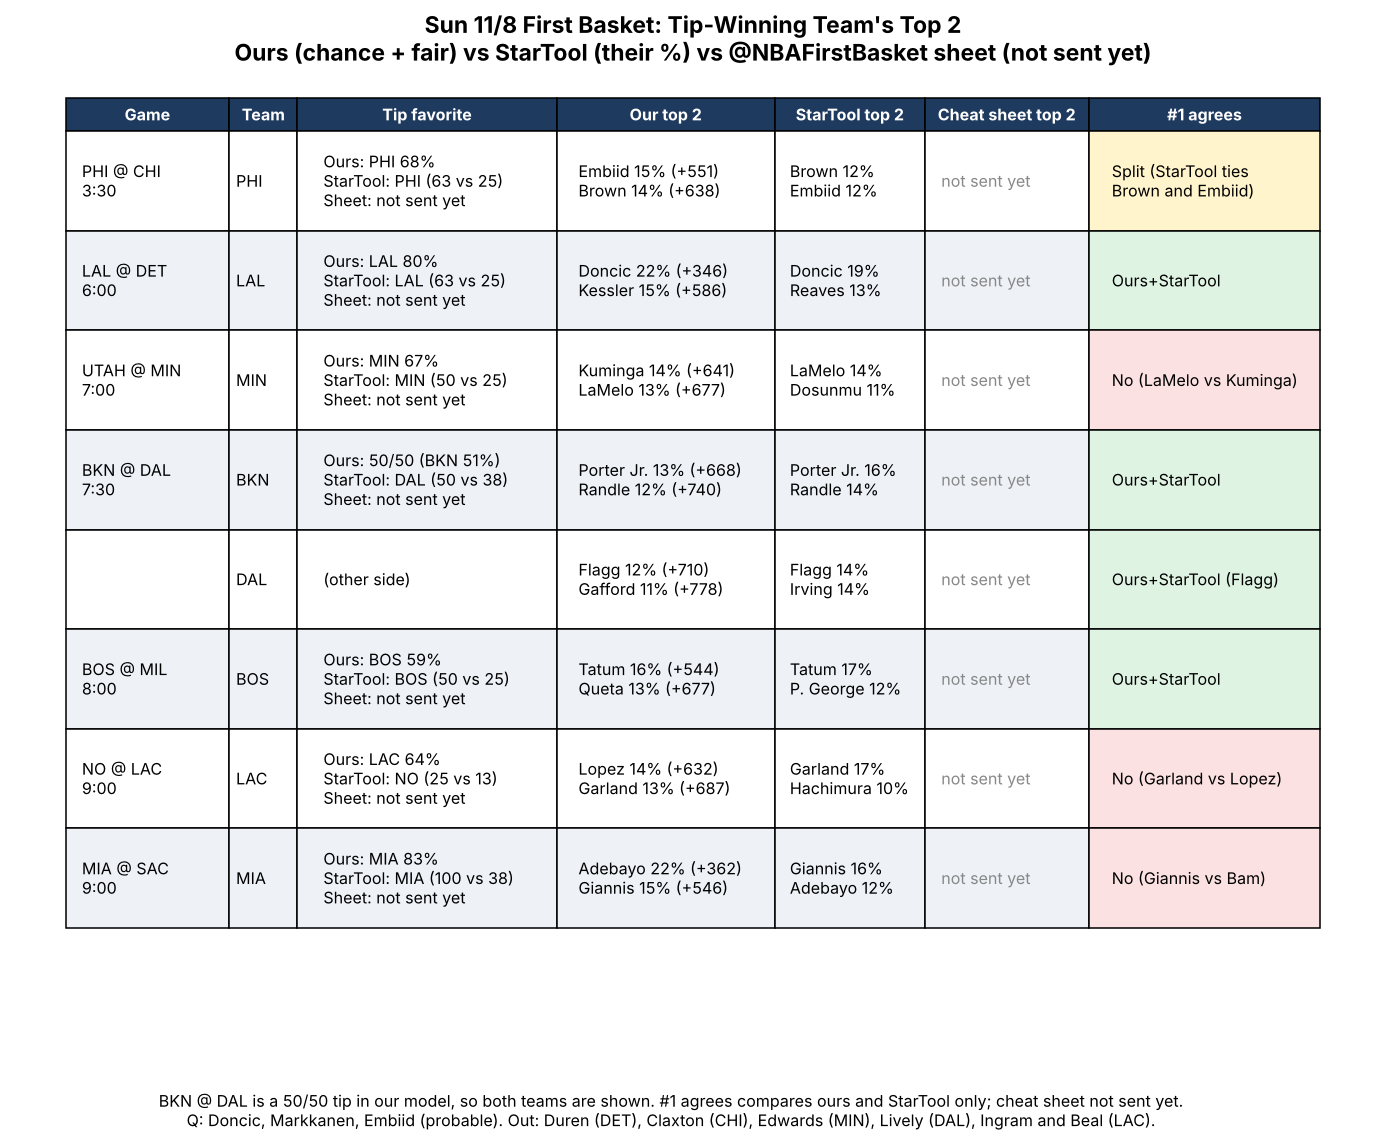
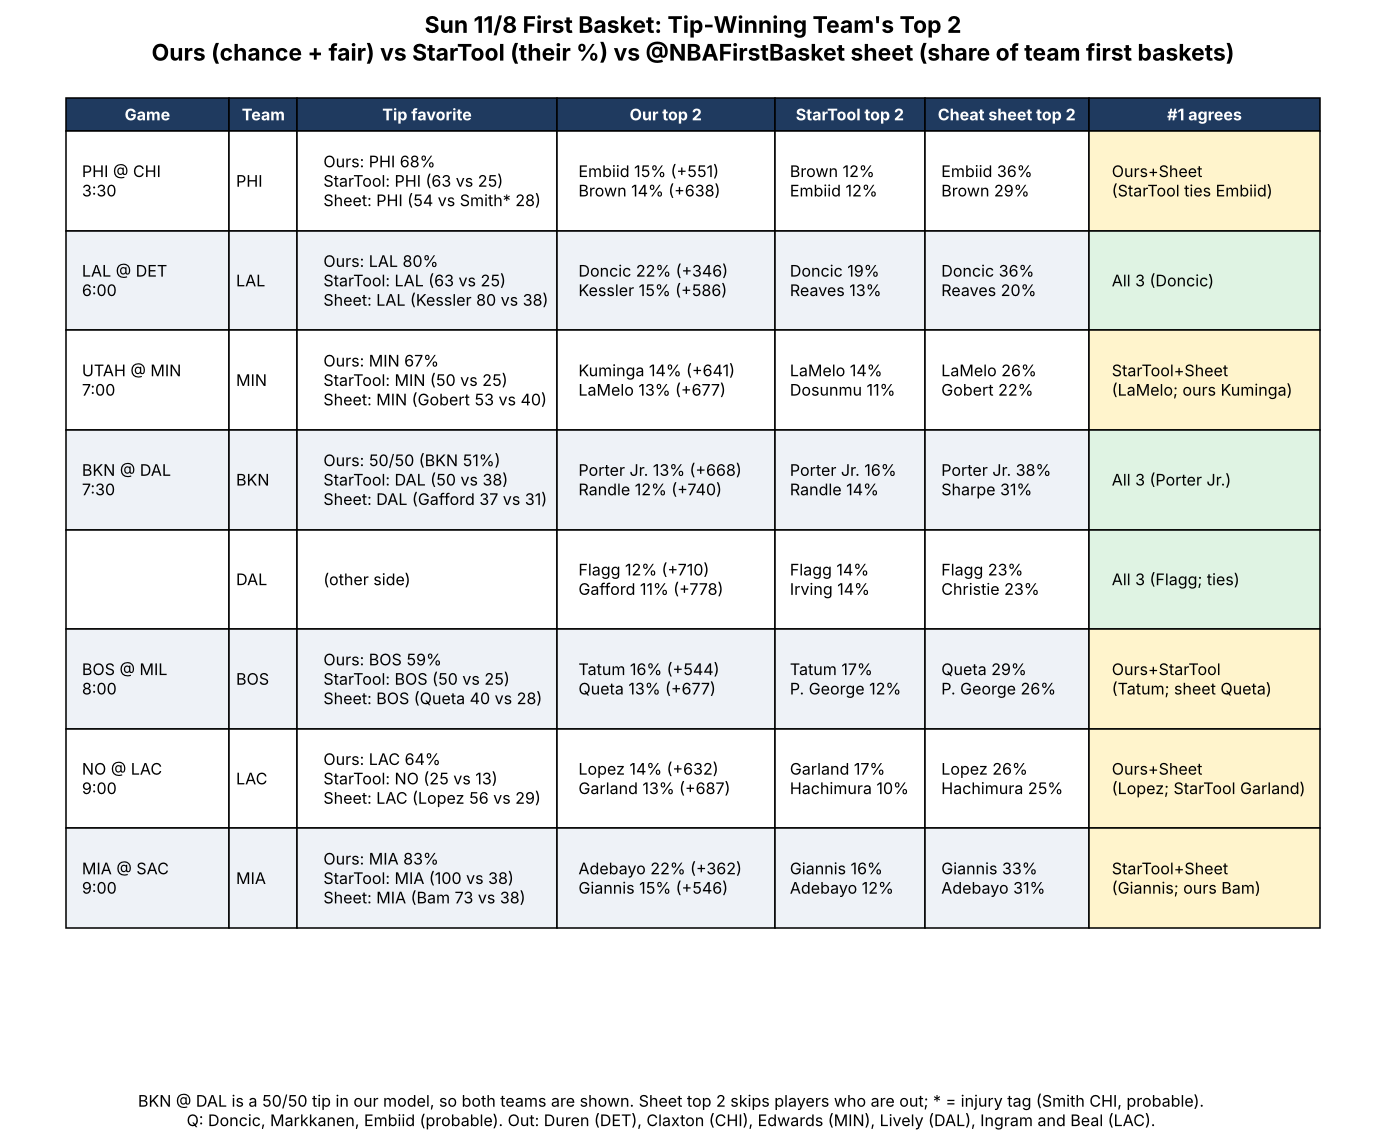
NBA 11/8: @NBAFirstBasket cheat sheets vs ours vs StarTool, 3-way chart filled
Claude-Session: https://claude.ai/code/session_01TQWUAJSyeczoh1eaRjRwmB

diff --git a/analysis/nba/out/charts/fb_tipteam_3way_2026-11-08.py b/analysis/nba/out/charts/fb_tipteam_3way_2026-11-08.py
@@ -2,17 +2,17 @@ import matplotlib; matplotlib.use('Agg')
 import matplotlib.pyplot as plt
 NS="not sent yet"
 rows=[
-["PHI @ CHI\n3:30","PHI","Ours: PHI 68%\nStarTool: PHI (63 vs 25)\nSheet: not sent yet","Embiid 15% (+551)\nBrown 14% (+638)","Brown 12%\nEmbiid 12%",NS,"Split (StarTool ties\nBrown and Embiid)","y"],
-["LAL @ DET\n6:00","LAL","Ours: LAL 80%\nStarTool: LAL (63 vs 25)\nSheet: not sent yet","Doncic 22% (+346)\nKessler 15% (+586)","Doncic 19%\nReaves 13%",NS,"Ours+StarTool","g"],
-["UTAH @ MIN\n7:00","MIN","Ours: MIN 67%\nStarTool: MIN (50 vs 25)\nSheet: not sent yet","Kuminga 14% (+641)\nLaMelo 13% (+677)","LaMelo 14%\nDosunmu 11%",NS,"No (LaMelo vs Kuminga)","r"],
-["BKN @ DAL\n7:30","BKN","Ours: 50/50 (BKN 51%)\nStarTool: DAL (50 vs 38)\nSheet: not sent yet","Porter Jr. 13% (+668)\nRandle 12% (+740)","Porter Jr. 16%\nRandle 14%",NS,"Ours+StarTool","g"],
-["","DAL","(other side)","Flagg 12% (+710)\nGafford 11% (+778)","Flagg 14%\nIrving 14%",NS,"Ours+StarTool (Flagg)","g"],
-["BOS @ MIL\n8:00","BOS","Ours: BOS 59%\nStarTool: BOS (50 vs 25)\nSheet: not sent yet","Tatum 16% (+544)\nQueta 13% (+677)","Tatum 17%\nP. George 12%",NS,"Ours+StarTool","g"],
-["NO @ LAC\n9:00","LAC","Ours: LAC 64%\nStarTool: NO (25 vs 13)\nSheet: not sent yet","Lopez 14% (+632)\nGarland 13% (+687)","Garland 17%\nHachimura 10%",NS,"No (Garland vs Lopez)","r"],
-["MIA @ SAC\n9:00","MIA","Ours: MIA 83%\nStarTool: MIA (100 vs 38)\nSheet: not sent yet","Adebayo 22% (+362)\nGiannis 15% (+546)","Giannis 16%\nAdebayo 12%",NS,"No (Giannis vs Bam)","r"],
+["PHI @ CHI\n3:30","PHI","Ours: PHI 68%\nStarTool: PHI (63 vs 25)\nSheet: PHI (54 vs Smith* 28)","Embiid 15% (+551)\nBrown 14% (+638)","Brown 12%\nEmbiid 12%","Embiid 36%\nBrown 29%","Ours+Sheet\n(StarTool ties Embiid)","y"],
+["LAL @ DET\n6:00","LAL","Ours: LAL 80%\nStarTool: LAL (63 vs 25)\nSheet: LAL (Kessler 80 vs 38)","Doncic 22% (+346)\nKessler 15% (+586)","Doncic 19%\nReaves 13%","Doncic 36%\nReaves 20%","All 3 (Doncic)","g"],
+["UTAH @ MIN\n7:00","MIN","Ours: MIN 67%\nStarTool: MIN (50 vs 25)\nSheet: MIN (Gobert 53 vs 40)","Kuminga 14% (+641)\nLaMelo 13% (+677)","LaMelo 14%\nDosunmu 11%","LaMelo 26%\nGobert 22%","StarTool+Sheet\n(LaMelo; ours Kuminga)","y"],
+["BKN @ DAL\n7:30","BKN","Ours: 50/50 (BKN 51%)\nStarTool: DAL (50 vs 38)\nSheet: DAL (Gafford 37 vs 31)","Porter Jr. 13% (+668)\nRandle 12% (+740)","Porter Jr. 16%\nRandle 14%","Porter Jr. 38%\nSharpe 31%","All 3 (Porter Jr.)","g"],
+["","DAL","(other side)","Flagg 12% (+710)\nGafford 11% (+778)","Flagg 14%\nIrving 14%","Flagg 23%\nChristie 23%","All 3 (Flagg; ties)","g"],
+["BOS @ MIL\n8:00","BOS","Ours: BOS 59%\nStarTool: BOS (50 vs 25)\nSheet: BOS (Queta 40 vs 28)","Tatum 16% (+544)\nQueta 13% (+677)","Tatum 17%\nP. George 12%","Queta 29%\nP. George 26%","Ours+StarTool\n(Tatum; sheet Queta)","y"],
+["NO @ LAC\n9:00","LAC","Ours: LAC 64%\nStarTool: NO (25 vs 13)\nSheet: LAC (Lopez 56 vs 29)","Lopez 14% (+632)\nGarland 13% (+687)","Garland 17%\nHachimura 10%","Lopez 26%\nHachimura 25%","Ours+Sheet\n(Lopez; StarTool Garland)","y"],
+["MIA @ SAC\n9:00","MIA","Ours: MIA 83%\nStarTool: MIA (100 vs 38)\nSheet: MIA (Bam 73 vs 38)","Adebayo 22% (+362)\nGiannis 15% (+546)","Giannis 16%\nAdebayo 12%","Giannis 33%\nAdebayo 31%","StarTool+Sheet\n(Giannis; ours Bam)","y"],
 ]
 fig,ax=plt.subplots(figsize=(16,1.1*len(rows)+2.4)); ax.axis('off')
-ax.set_title("Sun 11/8 First Basket: Tip-Winning Team's Top 2\nOurs (chance + fair) vs StarTool (their %) vs @NBAFirstBasket sheet (not sent yet)",fontsize=15,fontweight='bold',pad=12)
+ax.set_title("Sun 11/8 First Basket: Tip-Winning Team's Top 2\nOurs (chance + fair) vs StarTool (their %) vs @NBAFirstBasket sheet (share of team first baskets)",fontsize=15,fontweight='bold',pad=12)
 tb=ax.table(cellText=[r[:7] for r in rows],colLabels=["Game","Team","Tip favorite","Our top 2","StarTool top 2","Cheat sheet top 2","#1 agrees"],
   colWidths=[0.12,0.05,0.19,0.16,0.11,0.12,0.17],loc='upper center',cellLoc='left')
 tb.auto_set_font_size(False); tb.set_fontsize(10.5)
@@ -24,6 +24,5 @@ for (r,c),cl in tb.get_celld().items():
     else:
         if r%2==0: cl.set_facecolor('#eef2f7')
         if c==6: cl.set_facecolor(col[rows[r-1][7]])
-        if c==5: cl.get_text().set_color('#888888')
-plt.figtext(0.5,0.03,"BKN @ DAL is a 50/50 tip in our model, so both teams are shown. #1 agrees compares ours and StarTool only; cheat sheet not sent yet.\nQ: Doncic, Markkanen, Embiid (probable). Out: Duren (DET), Claxton (CHI), Edwards (MIN), Lively (DAL), Ingram and Beal (LAC).",ha='center',fontsize=10.5)
+plt.figtext(0.5,0.03,"BKN @ DAL is a 50/50 tip in our model, so both teams are shown. Sheet top 2 skips players who are out; * = injury tag (Smith CHI, probable).\nQ: Doncic, Markkanen, Embiid (probable). Out: Duren (DET), Claxton (CHI), Edwards (MIN), Lively (DAL), Ingram and Beal (LAC).",ha='center',fontsize=10.5)
 plt.savefig('/home/user/Defined-Risk-Trading/analysis/nba/out/charts/fb_tipteam_3way_2026-11-08.png',dpi=110,bbox_inches='tight')

diff --git a/analysis/nba/out/cheatsheet/2026-11-08.md b/analysis/nba/out/cheatsheet/2026-11-08.md
@@ -1,0 +1,43 @@
+# @NBAFirstBasket tip-off cheat sheet vs chain model, Sun 11/8 (last-season rates)
+
+Cards: `2026-11-08-tip1.jpg`, `2026-11-08-tip2.jpg`, `2026-11-08-fb-card1.png`, `2026-11-08-fb-card2.jpg`.
+Chart: `../charts/fb_tipteam_3way_2026-11-08.png` (ours vs StarTool vs sheet). Normalized A = A / (A + B) of the two player tip-win rates.
+Tim skipped betting today; comparison only.
+
+| Game | Jumpers (sheet) | Sheet tip win (A / B, H2H) | Normalized A | Our tip | Note |
+|---|---|---|---|---|---|
+| PHI@CHI | Embiid / Smith* | 54% / 28%, Smith 1-0 | ~66% PHI | PHI 68% | Agree; Smith probable (finger) |
+| LAL@DET | Kessler / Reed | 80% / 38%, no H2H | ~68% LAL | LAL 80% | Agree; we're higher |
+| UTA@MIN | Hayes / Gobert | 40% / 53%, Hayes 3-1 | ~43% UTA | MIN 67% | Agree on MIN; H2H favors Hayes |
+| BKN@DAL | Sharpe / Gafford | 31% / 37%, no H2H | ~46% BKN | 50/50 (BKN 51%) | Sheet leans DAL, like StarTool |
+| BOS@MIL | Queta / Turner | 40% / 28%, Turner 3-1 | ~59% BOS | BOS 59% | Agree; H2H favors Turner |
+| NOP@LAC | Matkovic / Lopez | 29% / 56%, Lopez 1-0 | ~34% NO | LAC 64% | Agree (StarTool had NO) |
+| MIA@SAC | Adebayo / Sabonis | 73% / 38%, Adebayo 2-0 | ~66% MIA | MIA 83% | Agree; we're higher |
+
+Jumper flags: none. Sheet jumpers match ours in all 7 games. Smith (CHI) has the injury asterisk (probable).
+
+## @NBAFirstBasket first-basket cards (1st Bsk = share of team's first baskets, historical)
+
+| Team | Our top 2 (game first points %, fair) | Sheet top 2 by 1st Bsk | Same #1? |
+|---|---|---|---|
+| PHI | Embiid 15% (+551), Brown 14% (+638) | Embiid 36%, Brown 29% | Yes |
+| CHI | Powell 11% (+829), J. Smith 10% (+935) | C. Wilson 38%, J. Smith 34% | Partly |
+| LAL | Doncic 22% (+346), Kessler 15% (+586) | Doncic 36%, Reaves 20% / Thybulle 20% | Yes |
+| DET | Reed 9% (+954), Collins 9% (+955) | Reed 35%, Collins 28% | Yes |
+| MIN | Kuminga 14% (+641), LaMelo 13% (+677) | LaMelo 26%, Gobert 22% (Kuminga 4%) | No |
+| UTAH | Markkanen 11% (+792), Bailey 10% (+917) | Markkanen 30%, K. George 25% | Yes |
+| BKN | Porter Jr. 13% (+668), Randle 12% (+740) | Porter Jr. 38%, Sharpe 31% | Yes |
+| DAL | Flagg 12% (+710), Gafford 11% (+778) | Flagg 23%, Christie 23% (tie) | Yes |
+| BOS | Tatum 16% (+544), Queta 13% (+677) | Queta 29%, P. George 26% (Tatum 23%) | Partly |
+| MIL | Turner 10% (+871), Burries 9% (+955) | Jaquez 60%, Herro 18% | No |
+| LAC | Lopez 14% (+632), Garland 13% (+687) | Lopez 26%, Hachimura 25% | Yes |
+| NO | Murphy 10% (+913), Zion 10% (+922) | Fears 21%, Murray 20% / Zion 20% | Partly |
+| MIA | Adebayo 22% (+362), Giannis 15% (+546) | Giannis 33%, Adebayo 31% | Partly |
+| SAC | Sabonis 9% (+976), Hunter 7% (+1258) | Sabonis 38%, Hunter 27% | Yes |
+
+Notes:
+- Kuminga: 21% of MIN's first shots but 4% of first baskets on the sheet; we have him as MIN's 1st-shot pick at 14%. Biggest gap of the day.
+- Jaquez 60% (MIL) and Burries 0% are small samples on new roles; context only.
+- Sheet lists Keegan Murray (SAC, questionable); we start Achiuwa. Murray's 17% is skipped if he sits.
+- Giannis 33% on the sheet is last season with MIL; his Miami games: 3 of 9 game first points (Bam also 3 of 9).
+- Caleb Wilson 38% (CHI) is a rookie sample of a few games.
